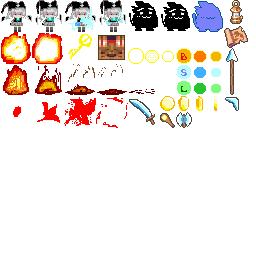
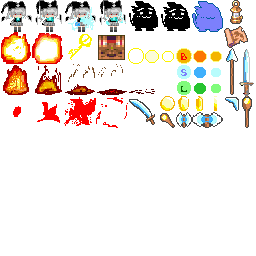
Update
Graphics Update

Changed region(s): [[0.9375, 0.1875, 1.0, 0.5], [0.75, 0.4375, 0.875, 0.5]]

diff --git a/data/character.js b/data/character.js
@@ -38,17 +38,17 @@ function character(){
 //武器動作
     //支援機(sword)
 //	[10, 15, 10, 0, 16, 16, 16, 16, "friend_rotate", 21, 7, 15, 15, 7, 1, 0],
-	[10, 35, 10, 0, 16, 16, 16, 16, "friend_rotate", 21, 7, 15, 15, 7, 1, 0],
+	[10, 42, 10, 0, 16, 16, 16, 16, "friend_rotate", 21, 7, 15, 15, 7, 1, 0],
 
 	//支援機2(Spear)
 	[36, 35, 10, 0, 16, 24, 16, 16, "friend_straight", 21, 7, 15, 15, 7, 1, 0],
 	//支援機3(Boom)
 	[37, 36, 3, 0, 8, 8, 16, 16, "friend_boom", 21, 7, 15, 15, 7, 1, 0],
 	//支援機4(axe)
-	[38, 37, 10, 0, 8, 8, 16, 16, "friend_rotate_full", 21, 7, 15, 15, 7, 1, 0],
+	[38, 40, 10, 0, 8, 8, 16, 16, "friend_rotate_full", 21, 7, 15, 15, 7, 1, 0],
 	//支援機5(wand)
 //	[39, 38, 10, 0, 8, 8, 16, 16, "friend_rotate", 21, 7, 15, 15, 7, 1, 0],
-	[39, 35, 10, 0, 8, 8, 16, 16, "friend_rotate", 21, 7, 15, 15, 7, 1, 0],
+	[39, 41, 10, 0, 8, 8, 16, 16, "friend_rotate", 21, 7, 15, 15, 7, 1, 0],
 
 
 //敵

diff --git a/data/scenario/enemy.js b/data/scenario/enemy.js
@@ -455,17 +455,17 @@ function sce_ememy_timeover() {
 function sce_enemy_inv_check(pick ){//敵が拾っているアイテムリストのうち1つを返す
 
     var ITEMLIST = [
-        22, 27, 26, 21, //KEY,MAP,LAMP,1UP
+        22, 27, 26, 21, //KEY,MAP,LAMP,1UP　
         15, 16, 17, 18, 19, //WEAPONS
         23, 24, 25, //COLORBALLS
-    //    20, //BALL
+        20, //BALL
     //    35,//:COINはPASS
         00
     ];
 
     var rc = 0; //nonitem
-    for (var i of pick) {
-        for (var j of ITEMLIST){
+    for (var i of ITEMLIST){ //持っているもののうち、優先順位が高いものを選択
+        for (var j of pick) {
             if (i == j ){
                rc = j;
                return rc;

diff --git a/data/motionPtn.js b/data/motionPtn.js
@@ -283,6 +283,32 @@ function motionPattern(){
 	["TrBox", 0, 0]
     ];
 
+	//=================================================
+	no = 40;
+
+	mp[no] = {};
+
+	mp[no].pattern = [
+	["Baxe", -1, -1]
+    ];
+
+	//=================================================
+	no = 41;
+
+	mp[no] = {};
+
+	mp[no].pattern = [
+	["Rod", -1, -1]
+    ];
+
+	//=================================================
+	no = 42;
+
+	mp[no] = {};
+
+	mp[no].pattern = [
+	["Sword", -1, -1]
+    ];
 
 //
 //@@

diff --git a/proc/state/stateConfig.js b/proc/state/stateConfig.js
@@ -77,7 +77,7 @@ function stateConfig(){
         this.shotfree = false;
         this.startstage = 1;
 
-        //this.use_audio = true;
+        this.use_audio = true;
         //this.debug = false; //debug表示　
         this.debug = false;
     }

diff --git a/data/spdata.js b/data/spdata.js
@@ -49,7 +49,9 @@ function spdata(){
 	["Boom", 224, 96, 16, 16],
 	["Axe", 176, 112, 16, 16],
 	["Wand", 160, 112, 16, 16],
-
+	["Sword",240, 48, 16, 48],
+	["Rod",240, 96, 16, 32],
+	["Baxe",192, 112, 32, 16],
        
 	["Dummy",112,32,15,15]];
 
